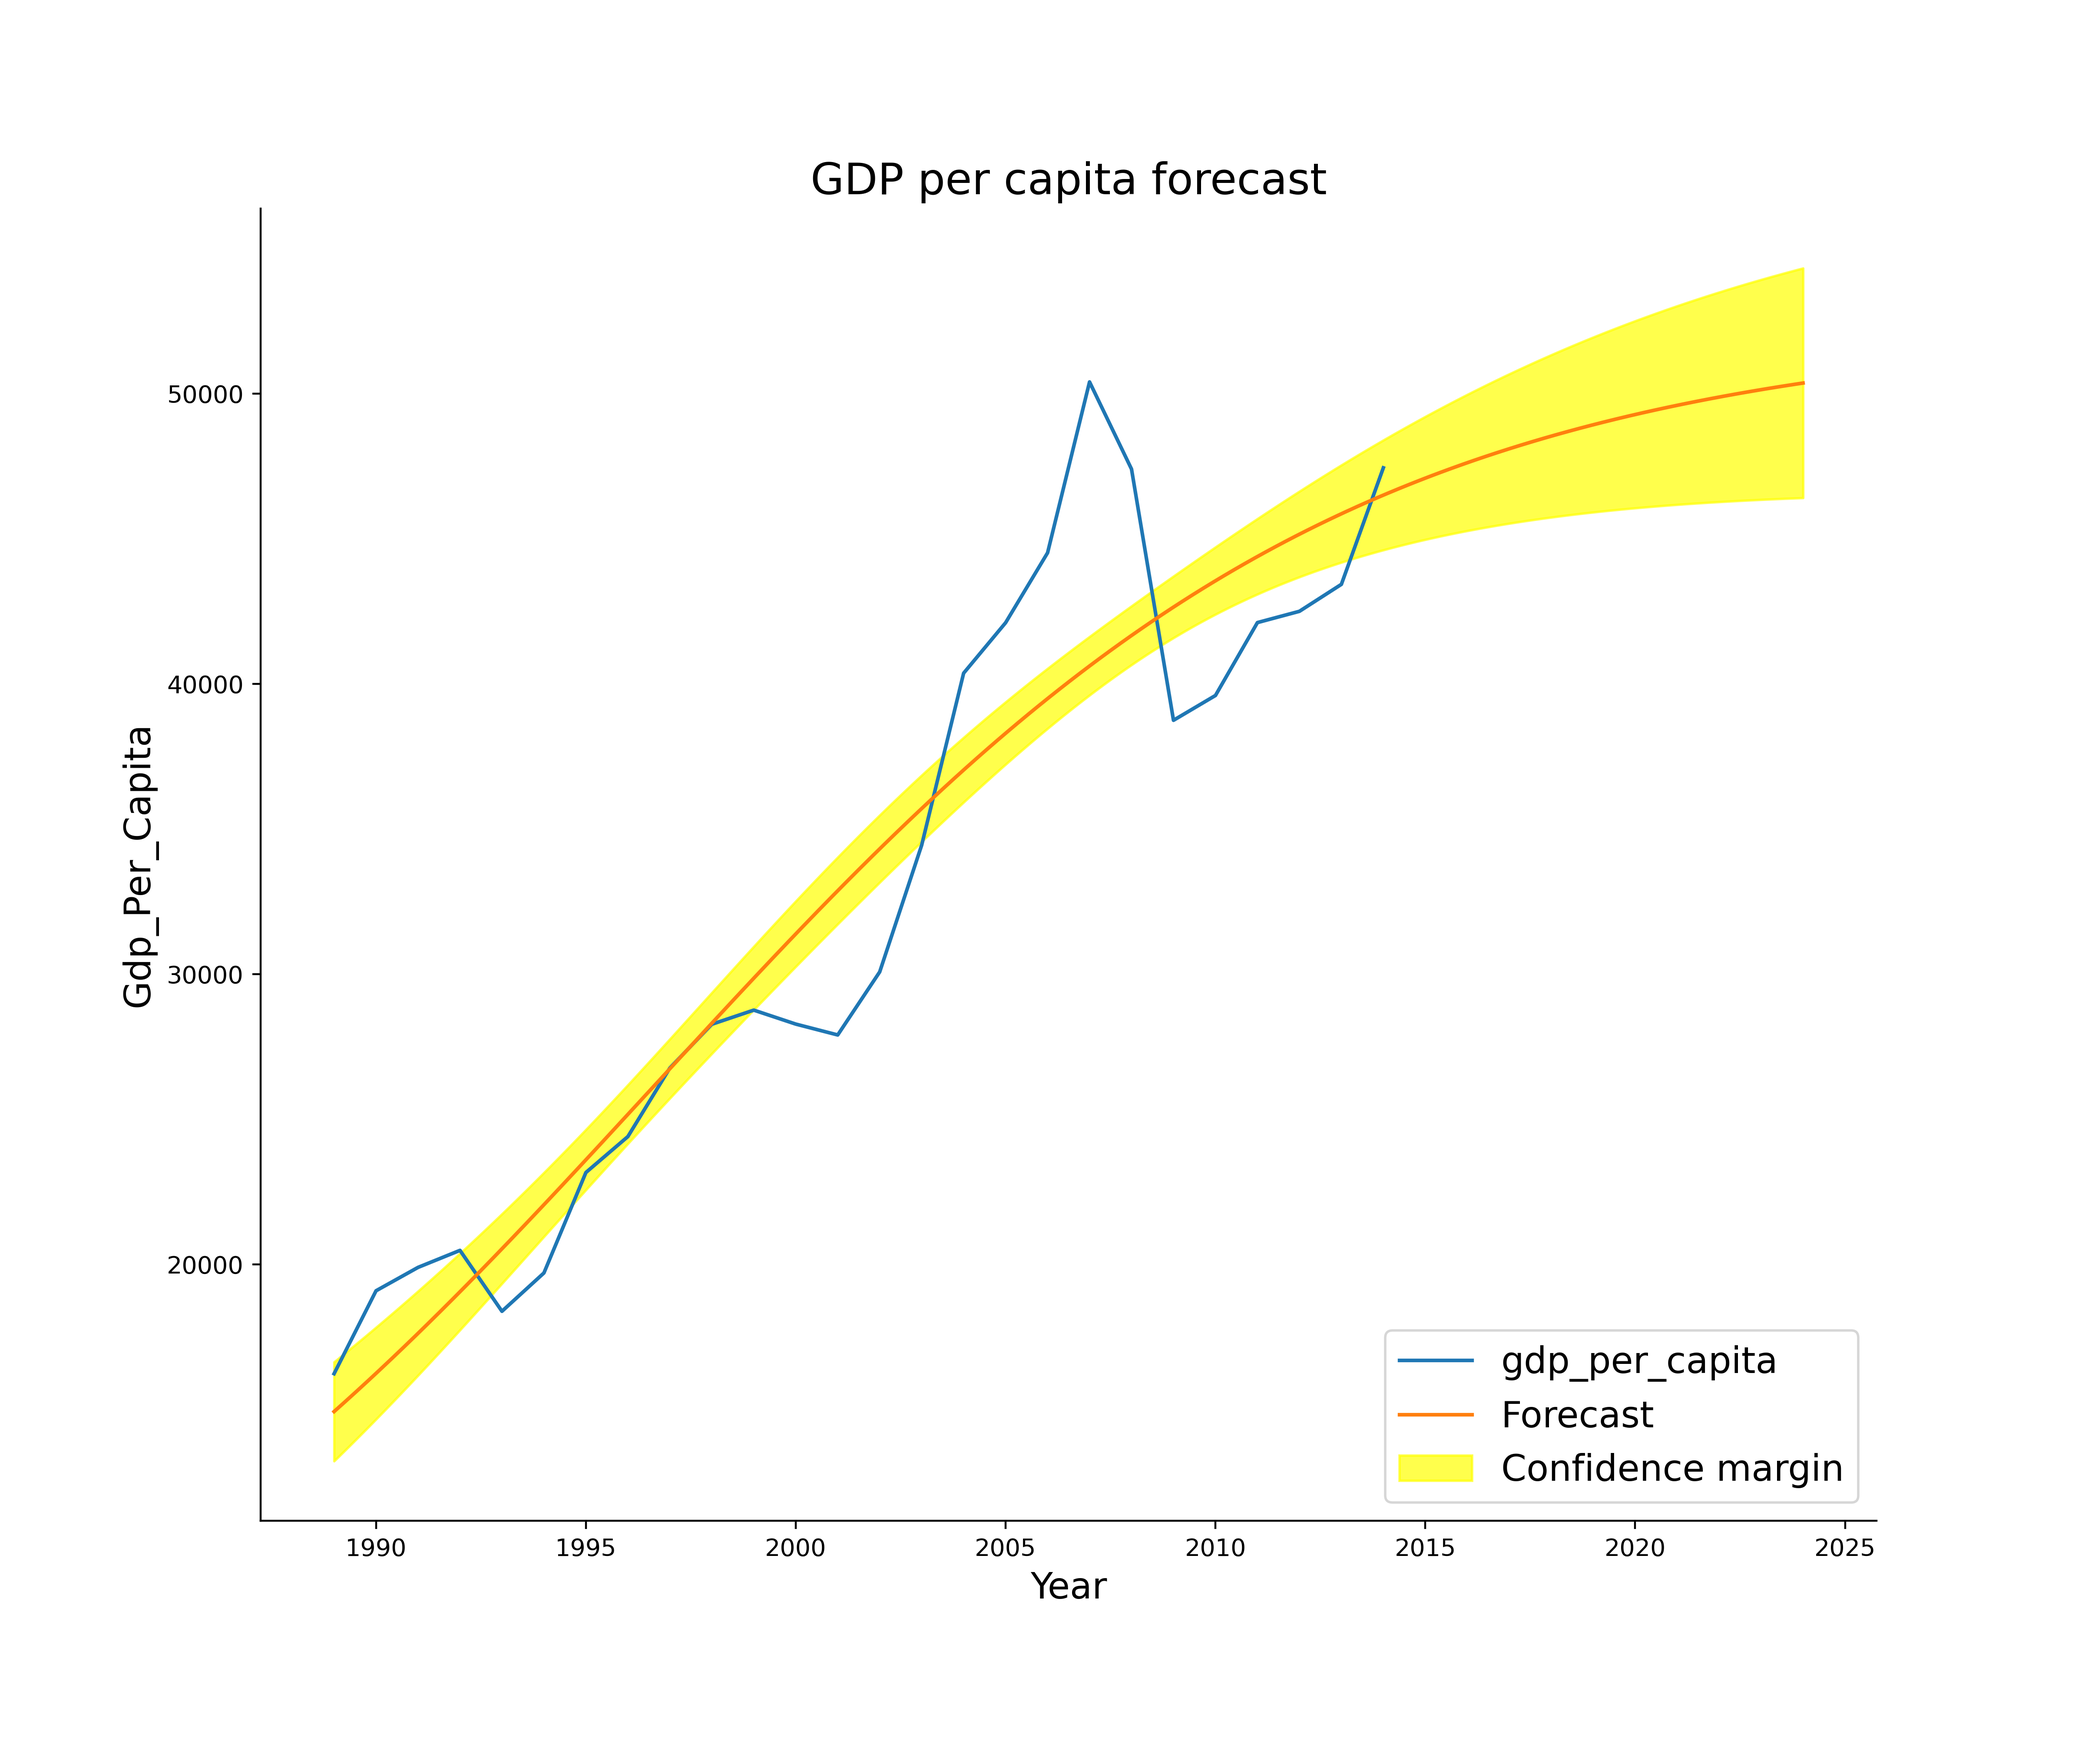
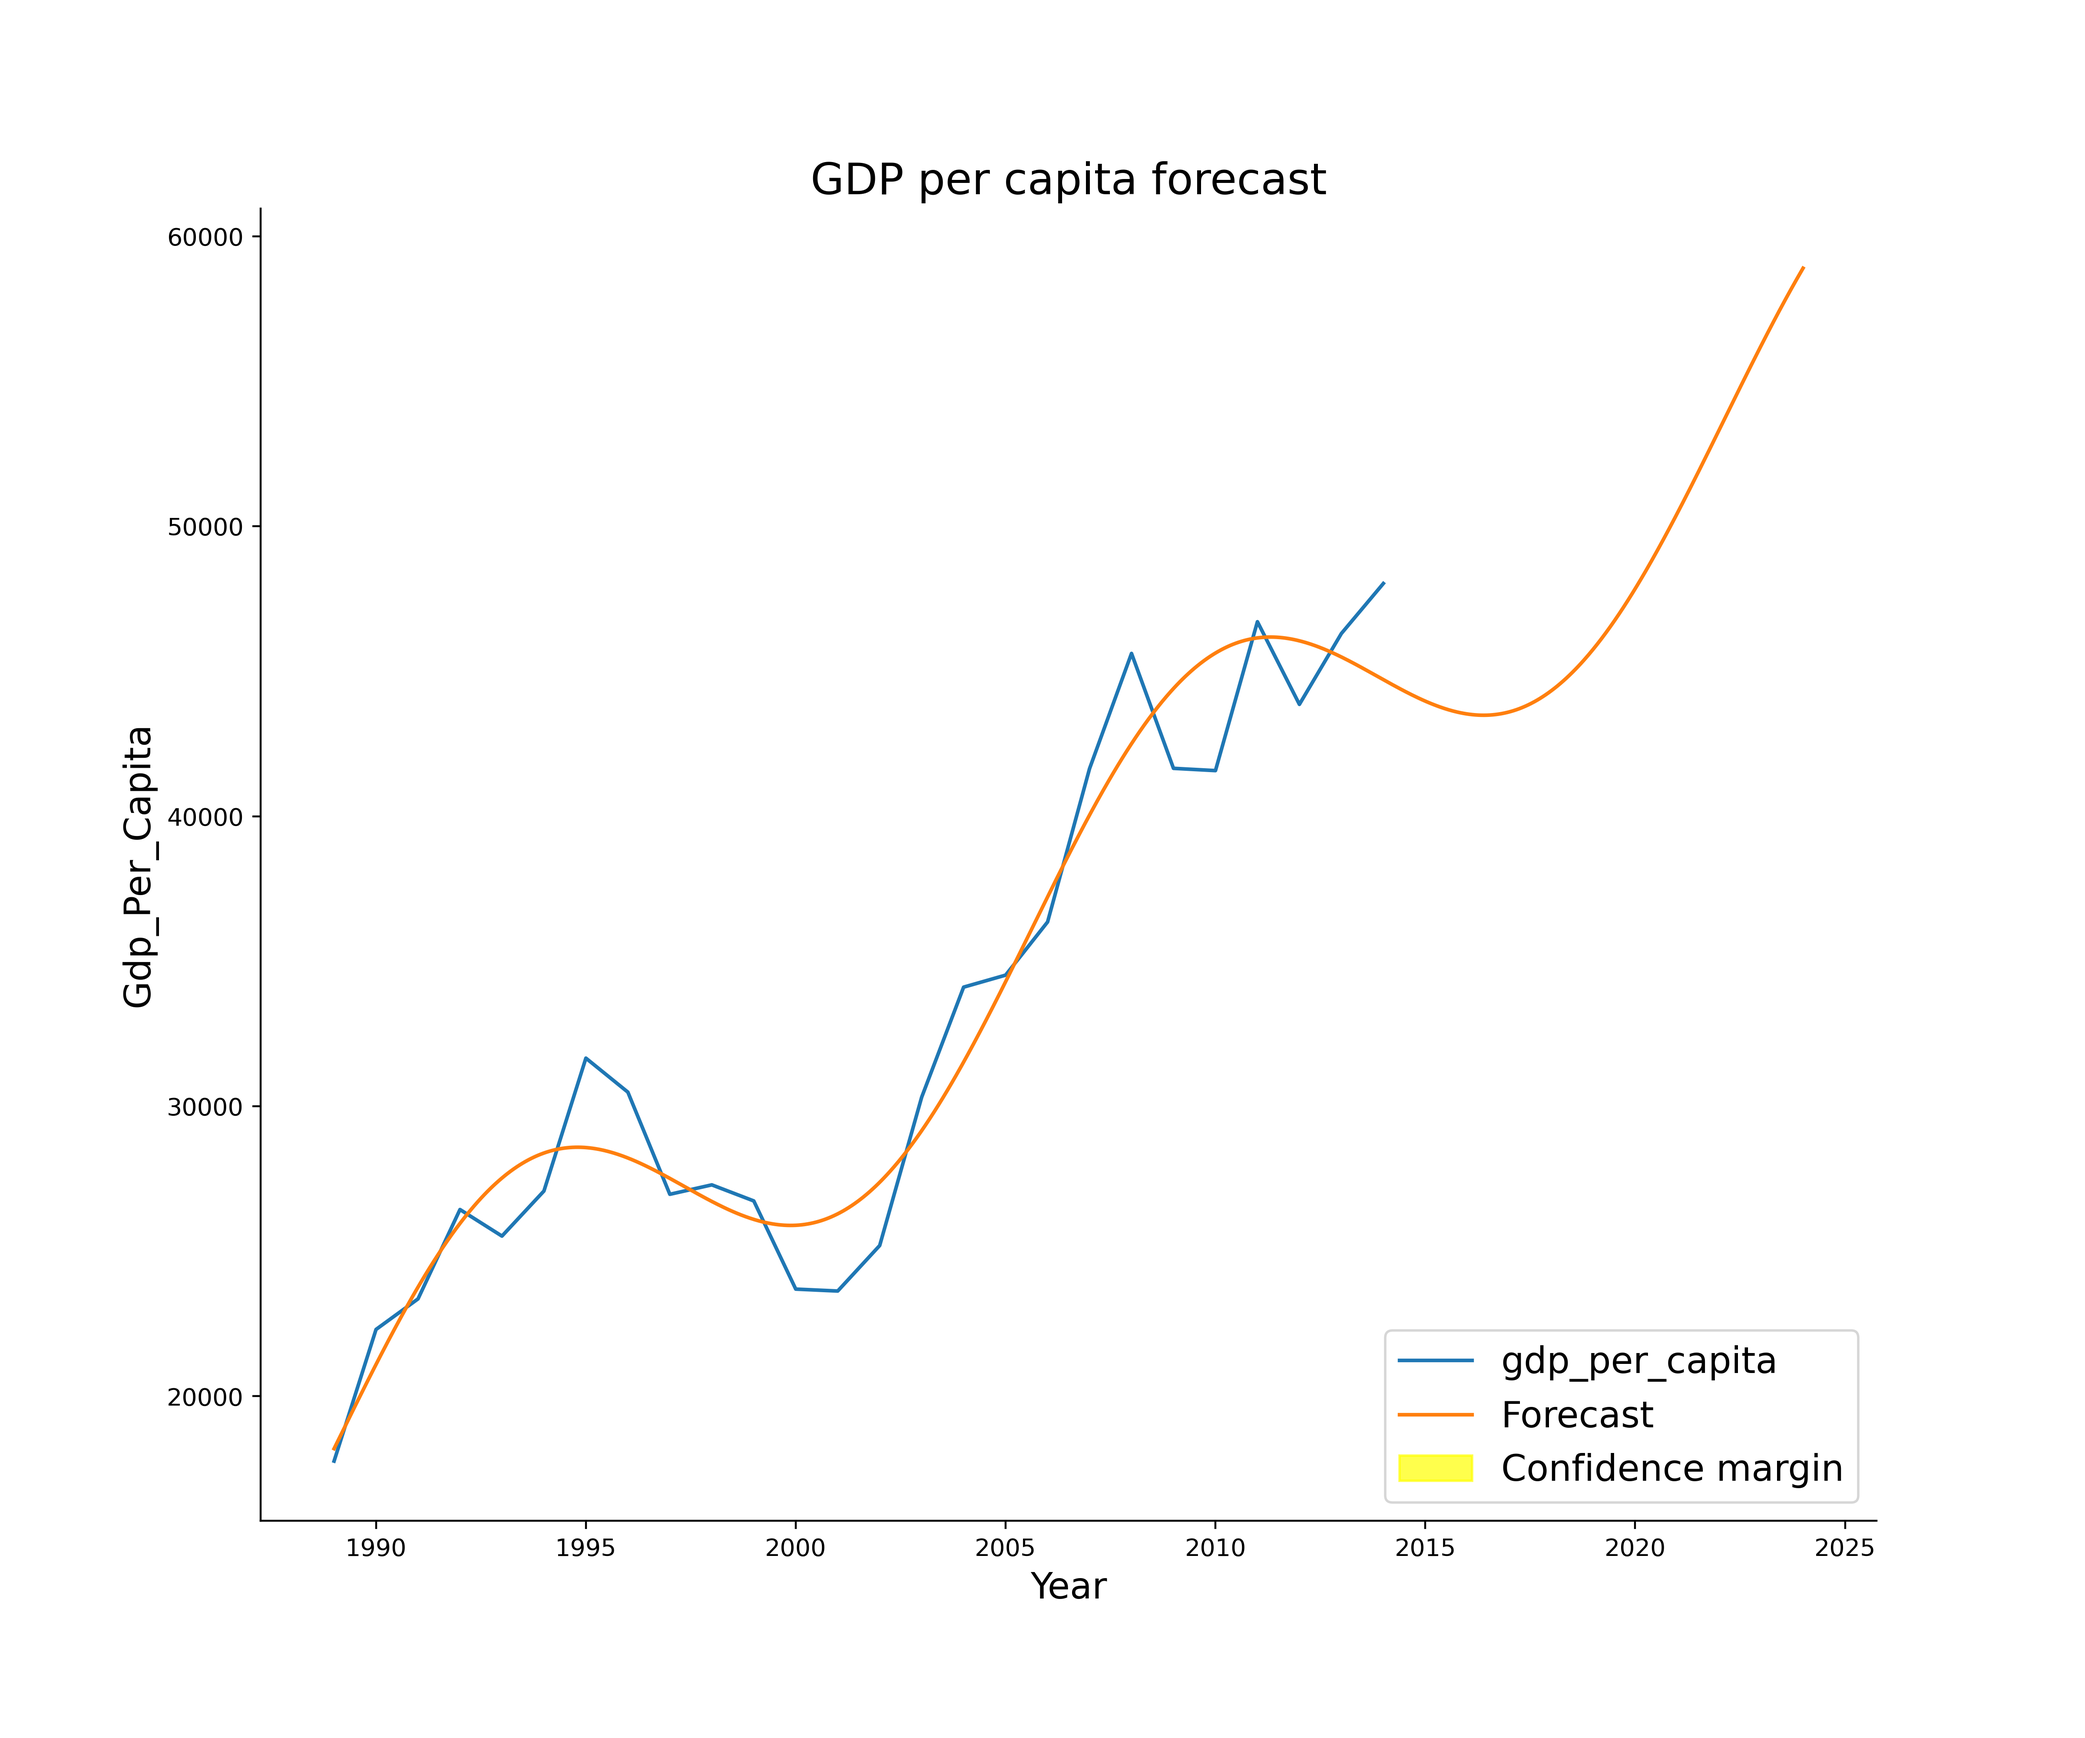
Final

diff --git a/assign3.py b/assign3.py
@@ -84,10 +84,11 @@ def combined_function(x, a, b, c, amplitude, frequency, phase):
     return a * x + b + amplitude * np.sin(2 * np.pi * frequency * (x - phase))
 
 
-def forecast(df, column, f, n=0,):
+def forecast(df, column, country, f, n=0,):
     """
-    Takes four arguments and plots a forecast curve using curve_fit
-    Arguments: Dataframe, Column name, n, f
+    Takes five arguments and plots a forecast curve using curve_fit
+    Arguments: Dataframe, Column name, n, f can be 1,2 or 3 indicating curve
+    functions logistic, combined_function and cubic_fit respectively.
     Return: None
     """
     # If f is 1 then call logistic function
@@ -114,17 +115,19 @@ def forecast(df, column, f, n=0,):
         else:
             plt.title('Electricity Consumption per capita', fontsize=18)
         plt.legend(loc=4, fontsize=15)
-        plt.savefig(f'{column}.png', dpi=400)
+        plt.savefig(f'{country}_{column}.png', dpi=400)
         plt.show()
 
     elif f == 2:  # If f is 2 call combined function
         # Provide initial guesses for the parameters
-        initial_guesses = [0.1, 1, 1, 500, 0.1, 2005]
-
+        initial_guesses = [1, 5, 10, 5000, 0.1, 1990]
+        # Set bounds for the parameters
+        bounds = ([-np.inf, -np.inf, -np.inf, 0, 0, -np.inf],
+                  [np.inf, np.inf, np.inf, 100000, np.inf, np.inf])
         # Perform the curve fitting with increased maxfev and initial guesses
         param, covar = opt.curve_fit(combined_function, df['Year'],
                                      df[column], maxfev=3000,
-                                     p0=initial_guesses)
+                                     p0=initial_guesses, bounds=bounds)
         # Extract the optimized parameters
         a, b, c, amplitude, frequency, phase = param
         year = np.linspace(1989, 2024, 1000)
@@ -133,6 +136,9 @@ def forecast(df, column, f, n=0,):
                                      frequency, phase)
         # Calculcate the sigma value
         sigma = err.error_prop(year, combined_function, param, covar)
+        # This is causing problems.... curve_fit cant get covariance array
+        # values correct
+        print(covar)
         up = forecast + sigma
         low = forecast - sigma
         plt.figure(figsize=(12, 10), dpi=400)
@@ -147,7 +153,7 @@ def forecast(df, column, f, n=0,):
         else:
             plt.title('Electricity Consumption per capita', fontsize=18)
         plt.legend(loc=4, fontsize=15)
-        plt.savefig(f'{column}.png', dpi=400)
+        plt.savefig(f'{country}_{column}.png', dpi=400)
         plt.show()
 
     elif f == 3:  # If f is 3 then call cubic function
@@ -176,7 +182,7 @@ def forecast(df, column, f, n=0,):
         else:
             plt.title('Electricity Consumption per capita', fontsize=18)
         plt.legend(loc=4, fontsize=15)
-        plt.savefig(f'{column}.png', dpi=400)
+        plt.savefig(f'{country}_{column}.png', dpi=400)
         plt.show()
 
 
@@ -265,7 +271,25 @@ uk_df = uk_df.reset_index()
 uk_df["Year"] = pd.to_numeric(uk_df['Year'])
 
 # Forecast GDP per capita
-forecast(uk_df, 'gdp_per_capita', 1, 4)
+forecast(uk_df, 'gdp_per_capita', 'UK', 1, 4)
 
 # Forecast Electricity consumption per capita
-forecast(uk_df, 'electricity_kwh', 3)
+forecast(uk_df, 'electricity_kwh', 'UK', 3)
+
+# Get data for Country of interest and merge it
+germany_df = pd.merge(electric_df['Germany'], gdp_df['Germany'],
+                      on=electric_df.index)
+# Rename Columns
+germany_df.rename(columns={'key_0': 'Year', 'Germany_x': 'electricity_kwh',
+                  'Germany_y': 'gdp_per_capita'}, inplace=True)
+germany_df.set_index('Year', inplace=True)
+# Slice the data from 1990-2014
+germany_df = germany_df.loc['1989':'2014']
+
+# Reset index and parse Year into a numeric value
+germany_df = germany_df.reset_index()
+germany_df["Year"] = pd.to_numeric(germany_df['Year'])
+# Forecast for germany
+print(germany_df)
+
+forecast(germany_df, 'gdp_per_capita', 'Germany', 2)
